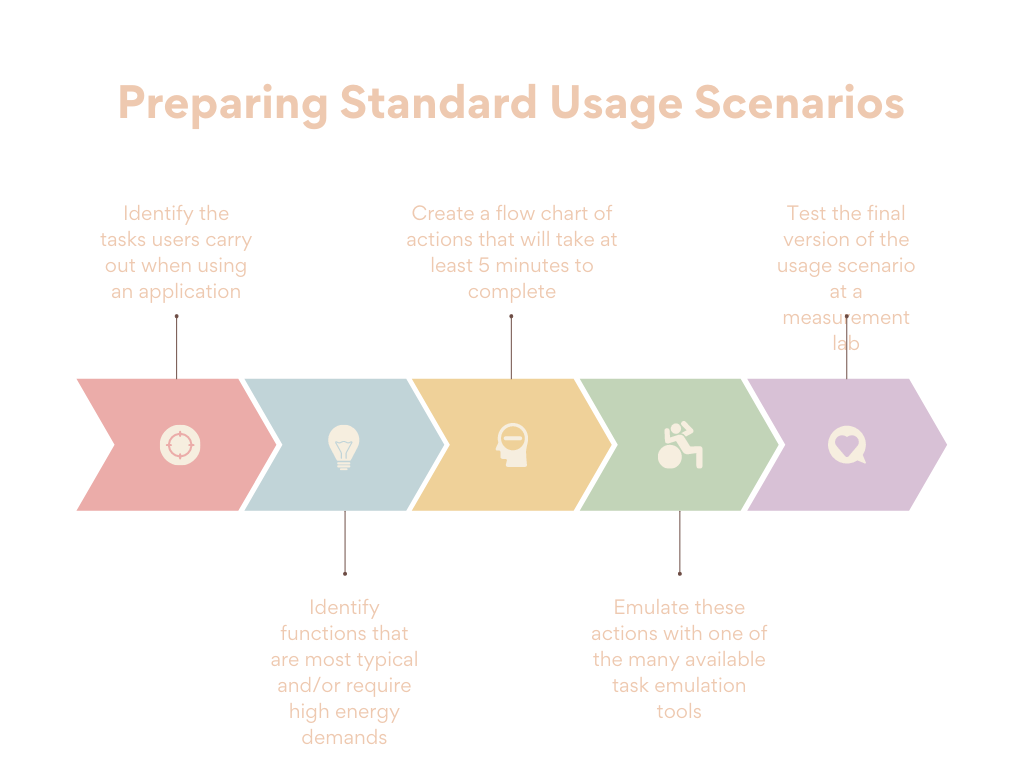
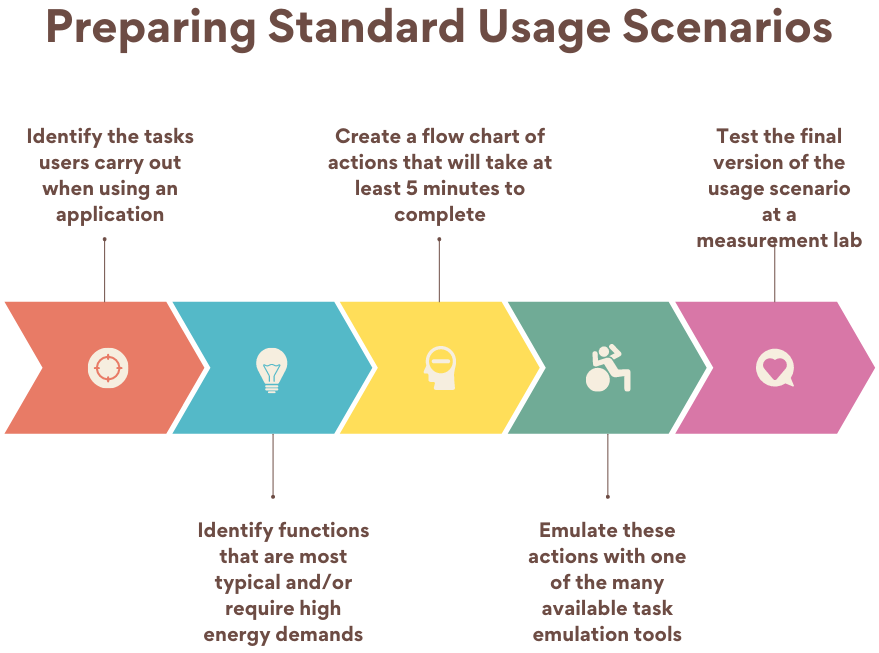
Update blog post images

diff --git a/assets/scss/20220303.scss b/assets/scss/20220303.scss
@@ -1,0 +1,4 @@
+.width-300px {
+  width: 300px;
+  height: auto;
+}

diff --git a/content/blog/2022-03-03-sok22-kde-eco.md b/content/blog/2022-03-03-sok22-kde-eco.md
@@ -4,6 +4,8 @@ title: Season of KDE 2022 With KDE Eco
 categories: [SOK22, Standard Usage Scenarios, Automation Tools, Blauer Engel]
 author: Karanjot Singh
 summary: My experience testing automation tools and preparing usage scenarios as a Season of KDE student with KDE Eco.
+scssFiles:
+  - scss/20220303.scss
 SPDX-License-Identifier: CC-BY-SA-4.0
 authors:
 - SPDX-FileCopyrightText: 2022 Karanjot Singh <drquark@duck.com>
@@ -21,7 +23,7 @@ As part of a pioneering sustainability project, [KDE Eco](https://eco.kde.org/) 
 
 {{< container class="text-center" >}}
 
-<img src="/blog/images/SoK_22Timeline.png" alt="Sok'22 Timeline" width="900px"/>
+![Season of KDE 2022 Timeline](/blog/images/SoK_22Timeline.png)
 
 {{< /container >}}
 
@@ -32,7 +34,7 @@ I think KDE Eco is a very good initiative for developing resource and energy-eff
 
 #### What I Have Learnt So Far
 
-<img src="/blog/images/whathow.png" alt="What?How?" width="300px" height="auto"/>
+{{< img src="/blog/images/whathow.svg" img_class="width-300px" >}}
 
 When I was beginning with this project, I had three questions.
 
@@ -48,7 +50,7 @@ When you use software, what you see is only the interface you are interacting wi
 
 {{< container class="text-center" >}}
 
-<img src="/blog/images/UIvsProcesses.png" alt="UI Vs. Complex Processes" width="1000px"/>
+![UI vs. Complex Processes](/blog/images/UIvsProcesses.png)
 
 {{< /container >}}
 
@@ -60,7 +62,7 @@ As noted by [FEEP](https://eco.kde.org/#feep), the design and implementation of 
 
 {{< container class="text-center" >}}
 
-<img src="/blog/images/3StepsToBEECO.png" alt="3 STEPS TO BE ECO LABEL" width="1200px"/>
+![3 Steps of Eco Certification](/blog/images/3StepsToBEECO.png)
 
 {{< /container >}}
 
@@ -86,7 +88,7 @@ In the end, I have decided to prepare all usage scenarios with xdotool, at least
 
 {{< container class="text-center" >}}
 
-<img src="/blog/images/PreparingSUS.png" alt="Preparing Standard Usage Scenarios" width="1000px"/>
+![Preparing Standard Usage Scenarios](/blog/images/PreparingSUS.png)
 
 {{< /container >}}
 
@@ -100,14 +102,10 @@ I am thankful to my mentor Joseph P. De Veaugh-Geiss for taking time to help me 
 
 {{< container class="text-center" >}}
 
-<img src="/blog/images/communitybonding.png" alt="Community Bonding Period" width="300px"/>
+{{< img src="/blog/images/communitybonding.png" img_class="width-300px" >}}
 
 {{< /container >}}
 
 Thank you for taking time to read this update. If anyone wants to follow-up on the ideas presented here regarding the pros and cons of different automation tools when implementing Standard Usage Scenarios, there is a [GitLab issue](https://invent.kde.org/teams/eco/be4foss/-/issues/32) at the BE4FOSS repository where we can discuss further.
 
 I am also available on KDE's Matrix instance at drquark:kde.org.
-
-#### License
-
-Text and images are available under the [Creative Commons Attribution-ShareAlike 4.0 International Public License](https://spdx.org/licenses/CC-BY-SA-4.0.html).
